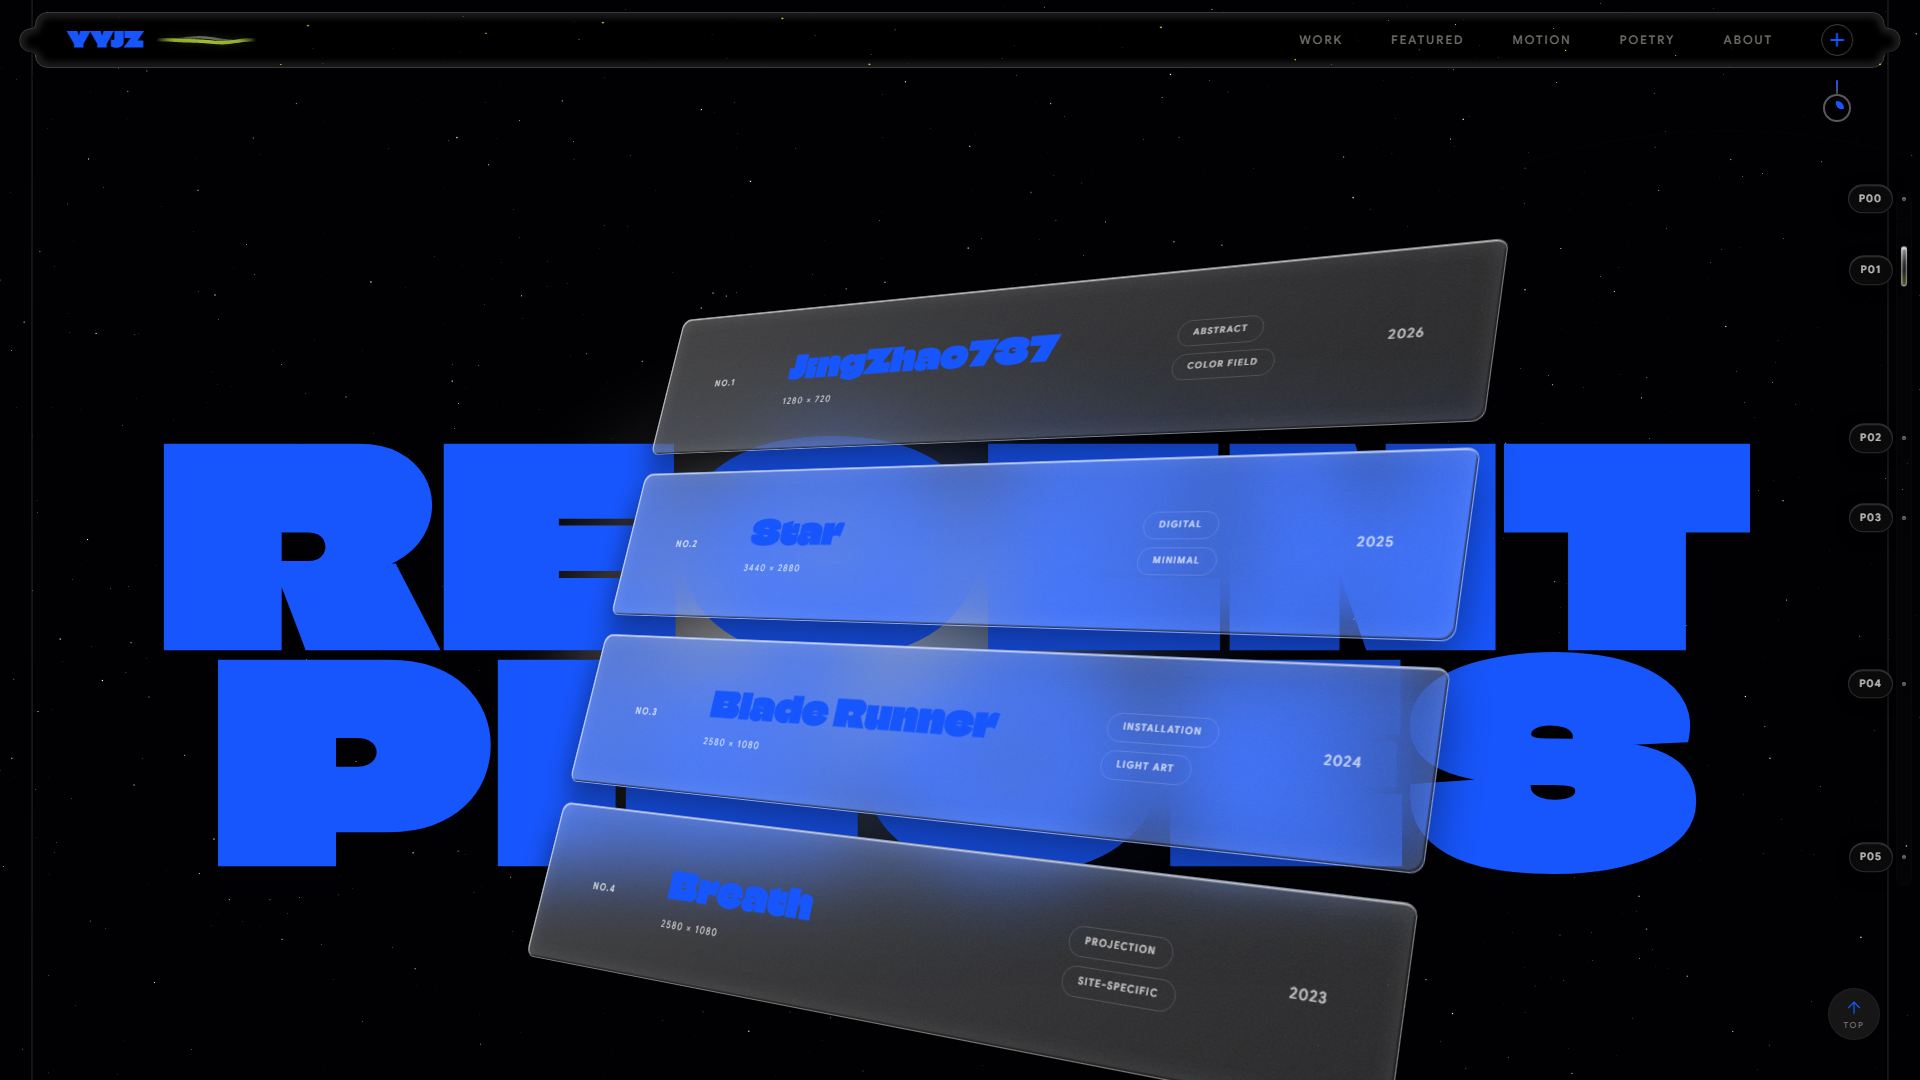
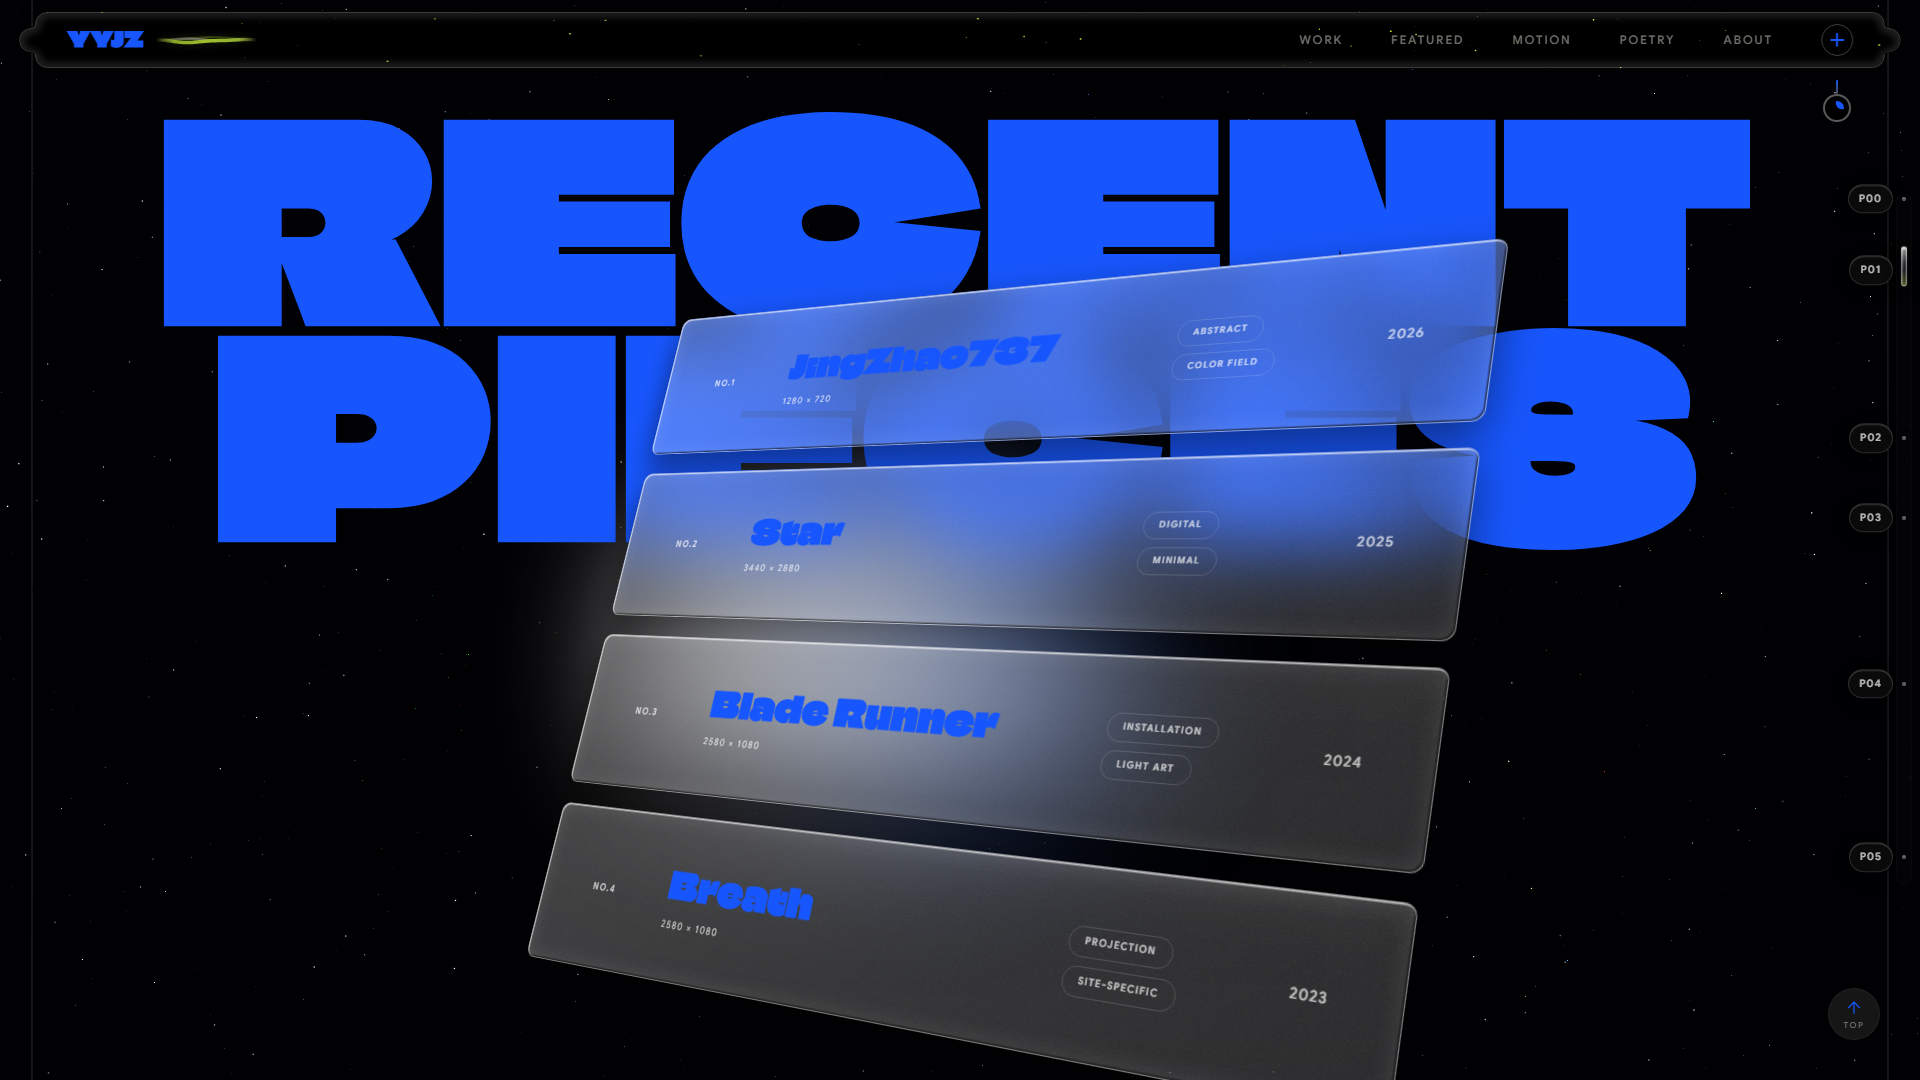
align title top 10vh and shift cards left 15vw

diff --git a/styles.css b/styles.css
@@ -3395,6 +3395,8 @@ a:focus-visible,button:focus-visible{outline:2px solid var(--accent);outline-off
     line-height: .82;
     margin-bottom: 0;
     text-align: center;
+    align-self: start;
+    margin-top: 10vh;
   }
 
   /* JS drives the rotation — transform-style needed for 3D children */
@@ -3406,7 +3408,7 @@ a:focus-visible,button:focus-visible{outline:2px solid var(--accent);outline-off
     margin: 0 auto;
     transform-style: preserve-3d;
     transition: none;
-    transform: translateX(-100px) translateY(140px) rotateY(-34deg) rotateX(17deg) rotateZ(2deg);
+    transform: translateX(-15vw) translateY(140px) rotateY(-34deg) rotateX(17deg) rotateZ(2deg);
   }
 
   .work-list .work-card {
